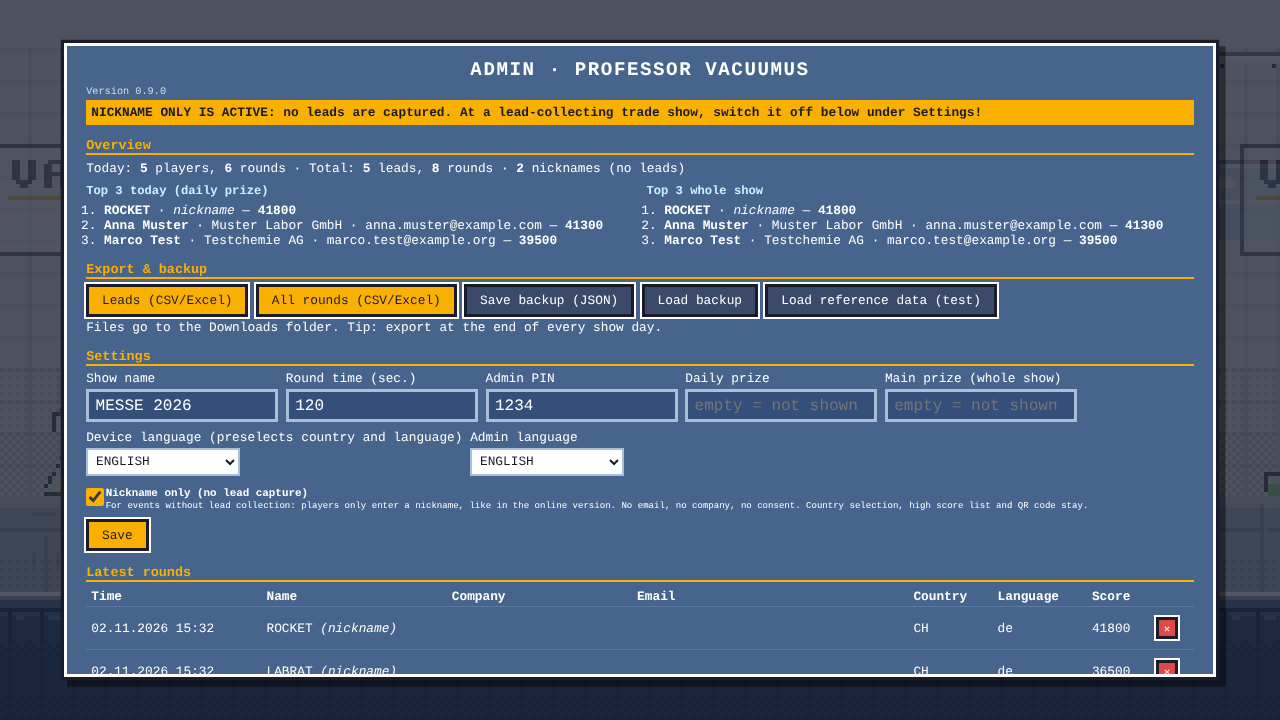
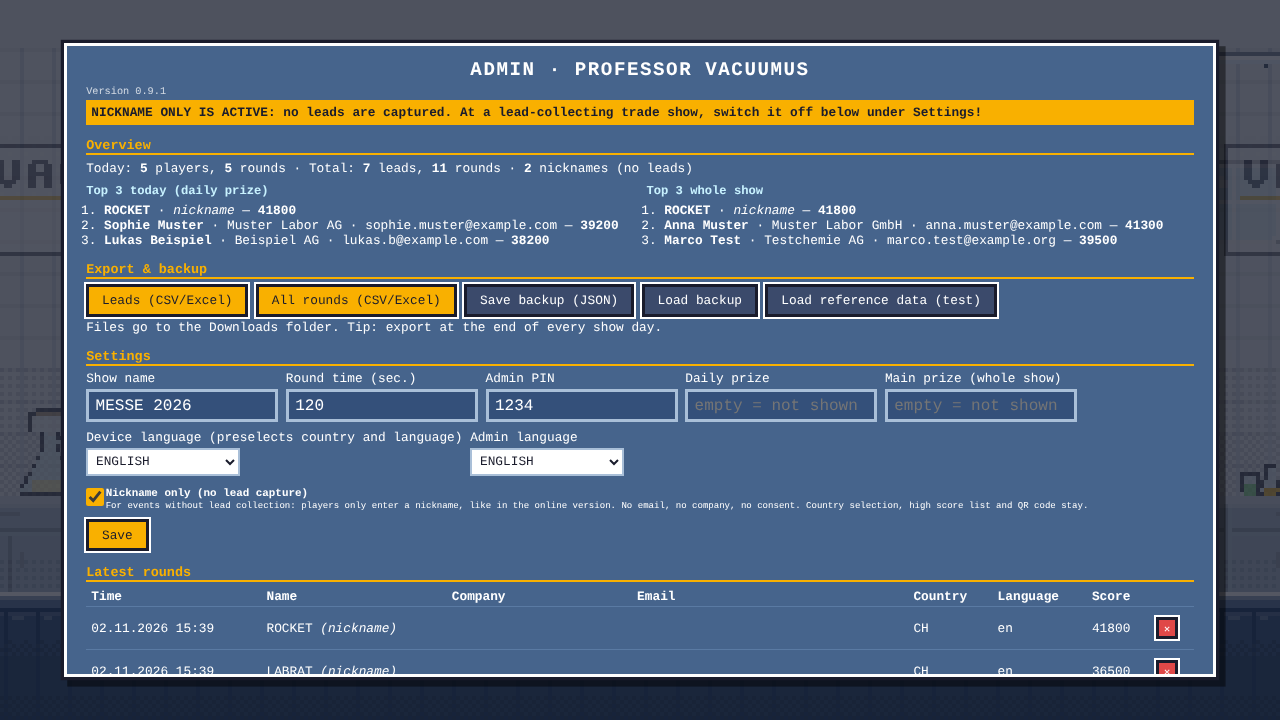
Doku: Admin-Screenshots mit Version 0.9.1 und Schalter Nur Spitzname, Download-Link auf alle Versionen
/releases/latest zeigt bei reinen Vorabversionen einen Fehler (404),
darum Link auf /releases.

Claude-Session: https://claude.ai/code/session_01Kw914B5m9AWXyXxcTjFzgT

diff --git a/TECHNIK.md b/TECHNIK.md
@@ -114,7 +114,7 @@ Online-Runden werden als Lead mit `isOnline: true`, Spitzname als Vorname und E-
 ### GitHub Pages und Automatik
 
 - GitHub Pages veröffentlicht bei jedem Push auf `main` automatisch das ganze Repo (Einstellung: Settings → Pages → „Deploy from a branch“, `main`, `/ (root)`). Die Datei `.nojekyll` sorgt dafür, dass die Dateien unverändert ausgeliefert werden.
-- `.github/workflows/release.yml` baut die **Download-Version**: Sobald man ihn unter Actions mit „Run workflow“ startet (Version eintragen, er setzt den Tag selbst) oder ein Tag `v…` (z. B. `v0.9.0`) gepusht wird, packt `git archive --prefix=Professor-Vacuumus/` das Repo in `Professor-Vacuumus-v….zip`, erstellt das Release mit dem Text aus `RELEASE_NOTES.md` und hängt das ZIP an. Tags mit `v0.` oder `-` (z. B. `v1.0.0-beta`) werden als Vorabversion (Pre-release) markiert. Was nicht ins ZIP gehört (`.github/`, `docs/wiki/`, `docs/discussions-willkommen.md`, `CLAUDE.md`, Punkt-Dateien), steht mit `export-ignore` in `.gitattributes`. `git archive` übernimmt die Ausführbarkeit der Start-Dateien (`.command`, `.sh`) ins ZIP; Windows ignoriert sie, Mac und Pi behalten sie beim Entpacken normalerweise. Falls nicht: `chmod +x` (siehe ANLEITUNG.md). Download-Link für alle: https://github.com/GSB-Deleven/vacuubrand-game/releases/latest
+- `.github/workflows/release.yml` baut die **Download-Version**: Sobald man ihn unter Actions mit „Run workflow“ startet (Version eintragen, er setzt den Tag selbst) oder ein Tag `v…` (z. B. `v0.9.0`) gepusht wird, packt `git archive --prefix=Professor-Vacuumus/` das Repo in `Professor-Vacuumus-v….zip`, erstellt das Release mit dem Text aus `RELEASE_NOTES.md` und hängt das ZIP an. Tags mit `v0.` oder `-` (z. B. `v1.0.0-beta`) werden als Vorabversion (Pre-release) markiert. Was nicht ins ZIP gehört (`.github/`, `docs/wiki/`, `docs/discussions-willkommen.md`, `CLAUDE.md`, Punkt-Dateien), steht mit `export-ignore` in `.gitattributes`. `git archive` übernimmt die Ausführbarkeit der Start-Dateien (`.command`, `.sh`) ins ZIP; Windows ignoriert sie, Mac und Pi behalten sie beim Entpacken normalerweise. Falls nicht: `chmod +x` (siehe ANLEITUNG.md). Download-Link für alle: https://github.com/GSB-Deleven/vacuubrand-game/releases
 - `.github/workflows/claude.yml` startet Claude, wenn in einem Issue oder Kommentar `@claude` steht oder das Label `claude` gesetzt wird. Claude setzt die Aufgabe auf einem eigenen Branch um und bereitet einen Pull Request vor. Voraussetzung: Repository-Secret `CLAUDE_CODE_OAUTH_TOKEN` (Claude-Abo, erzeugt mit `claude setup-token`) oder `ANTHROPIC_API_KEY`. Regeln für Claude stehen in `CLAUDE.md`.
 
 ### Szenen

diff --git a/README.md b/README.md
@@ -13,7 +13,7 @@
 
 > [!NOTE]
 > **🧪 Online testen: [gsb-deleven.github.io/vacuubrand-game](https://gsb-deleven.github.io/vacuubrand-game/)**
-> Die Online-Version ist nur zum Ausprobieren. An der Messe läuft die Offline-Version mit Anmeldung und Export: [herunterladen](https://github.com/GSB-Deleven/vacuubrand-game/releases/latest).
+> Die Online-Version ist nur zum Ausprobieren. An der Messe läuft die Offline-Version mit Anmeldung und Export: [herunterladen](https://github.com/GSB-Deleven/vacuubrand-game/releases).
 >
 > <details>
 > <summary>Unterschiede zur Messe-Version (aufklappen)</summary>
@@ -192,8 +192,9 @@ Das Spiel läuft auf **Deutsch, Englisch und Französisch** (Wunsch des UK-Teams
 - Export als **Excel-Datei (CSV)**: eine Liste mit allen Kontakten, eine mit allen gespielten Runden, jeweils mit Land und Sprache. Die Kontakte können danach direkt ins CRM oder an den Vertrieb.
 - Die Einwilligung ist Pflicht, der Newsletter freiwillig und separat angekreuzt.
 - Nach der Messe löscht ein Knopf alle Daten.
+- Für Anlässe ohne Lead-Sammlung gibt es im Admin den Schalter **Nur Spitzname**: Die Leute geben nur einen Spitznamen ein, es werden keine Kontaktdaten erfasst. Solange er an ist, zeigt der Admin einen gelben Warnbalken.
 
-![Admin-Bereich mit Top 3, Export und Einstellungen (Beispieldaten)](docs/screenshots/de/15-admin.png)
+![Admin-Bereich mit Top 3, Export, Einstellungen und Schalter „Nur Spitzname“ (Beispieldaten)](docs/screenshots/de/15-admin.png)
 
 > [!IMPORTANT]
 > Den Einwilligungstext sollte die Datenschutzstelle vor dem ersten Einsatz noch einmal anschauen, für UK/Irland und Frankreich jeweils separat. Er lässt sich in einer Datei ändern, ohne Programmierkenntnisse.
@@ -202,7 +203,7 @@ Das Spiel läuft auf **Deutsch, Englisch und Französisch** (Wunsch des UK-Teams
 
 ## ⬇ Herunterladen
 
-Die fertige Version zum Herunterladen: **[Professor Vacuumus, neueste Version](https://github.com/GSB-Deleven/vacuubrand-game/releases/latest)**
+Die fertige Version zum Herunterladen: **[Professor Vacuumus, neueste Version](https://github.com/GSB-Deleven/vacuubrand-game/releases)**
 
 1. Unten bei „Assets“ die Datei `Professor-Vacuumus-v….zip` laden.
 2. Entpacken (Windows: Rechtsklick → „Alle extrahieren“, Mac: Doppelklick, Raspberry Pi: Rechtsklick → „Hier entpacken“).

diff --git a/README.en.md b/README.en.md
@@ -13,7 +13,7 @@
 
 > [!NOTE]
 > **🧪 Try it online: [gsb-deleven.github.io/vacuubrand-game](https://gsb-deleven.github.io/vacuubrand-game/)**
-> The online version is for trying it out only. At the show, the offline version with registration and export is used: [download](https://github.com/GSB-Deleven/vacuubrand-game/releases/latest).
+> The online version is for trying it out only. At the show, the offline version with registration and export is used: [download](https://github.com/GSB-Deleven/vacuubrand-game/releases).
 >
 > <details>
 > <summary>Differences from the show version (expand)</summary>
@@ -192,8 +192,9 @@ The game runs in **German, English and French** (a wish of the UK team). Before 
 - Export as an **Excel file (CSV)**: one list with all contacts, one with all rounds played, each with country and language. The contacts can then go straight into the CRM or to sales.
 - Consent is required, the newsletter is optional and ticked separately.
 - After the show one button deletes all data.
+- For events without lead collection there is a **Nickname only** switch in the admin area: people only enter a nickname and no contact data is captured. While it is on, the admin area shows a yellow warning bar.
 
-![Admin area with top 3, export and settings (sample data)](docs/screenshots/en/15-admin.png)
+![Admin area with top 3, export, settings and the "Nickname only" switch (sample data)](docs/screenshots/en/15-admin.png)
 
 > [!IMPORTANT]
 > The consent text should be checked by data protection before first use, for the UK/Ireland and France separately. It can be changed in a file, without programming skills.
@@ -202,7 +203,7 @@ The game runs in **German, English and French** (a wish of the UK team). Before 
 
 ## ⬇ Download
 
-The ready-made version to download: **[Professor Vacuumus, latest version](https://github.com/GSB-Deleven/vacuubrand-game/releases/latest)**
+The ready-made version to download: **[Professor Vacuumus, latest version](https://github.com/GSB-Deleven/vacuubrand-game/releases)**
 
 1. Under "Assets" at the bottom, download `Professor-Vacuumus-v….zip`.
 2. Unzip it (Windows: right-click → "Extract All", Mac: double-click, Raspberry Pi: right-click → "Extract Here").

diff --git a/CLAUDE.md b/CLAUDE.md
@@ -41,7 +41,7 @@ Siehe `TECHNIK.md` (Dateien, Mechanik, Datenformat, Mehrsprachigkeit, Länder, K
 - Das Artifact auf claude.ai wird nicht mehr gepflegt; Testen läuft über GitHub Pages.
 
 ### Neue Version veröffentlichen (Download-ZIP)
-Release-Seite: https://github.com/GSB-Deleven/vacuubrand-game/releases/latest. `CONFIG.version` (js/config.js, steht klein im Admin) und `sw.js` VERSION erhöhen, `RELEASE_NOTES.md` (DE zuerst, dann EN) anpassen, per PR mergen, dann den Workflow „Release erstellen“ starten: `mcp__github__actions_run_trigger` (method `run_workflow`, workflow `release.yml`, ref `main`, inputs `{version: 'v0.9.1'}`); er setzt den Tag selbst. Tags pushen ist aus der Cloud-Umgebung blockiert (403). David kann im Browser: Actions → Release erstellen → Run workflow. `.github/workflows/release.yml` baut mit `git archive` das ZIP `Professor-Vacuumus-vX.Y.Z.zip` und erstellt das Release (`v0.*` oder mit `-` = Pre-release). Was nicht ins ZIP soll: `export-ignore` in `.gitattributes`. Details: TECHNIK.md, Kochrezept „Neue Version veröffentlichen“.
+Release-Seite: https://github.com/GSB-Deleven/vacuubrand-game/releases. `CONFIG.version` (js/config.js, steht klein im Admin) und `sw.js` VERSION erhöhen, `RELEASE_NOTES.md` (DE zuerst, dann EN) anpassen, per PR mergen, dann den Workflow „Release erstellen“ starten: `mcp__github__actions_run_trigger` (method `run_workflow`, workflow `release.yml`, ref `main`, inputs `{version: 'v0.9.1'}`); er setzt den Tag selbst. Tags pushen ist aus der Cloud-Umgebung blockiert (403). David kann im Browser: Actions → Release erstellen → Run workflow. `.github/workflows/release.yml` baut mit `git archive` das ZIP `Professor-Vacuumus-vX.Y.Z.zip` und erstellt das Release (`v0.*` oder mit `-` = Pre-release). Was nicht ins ZIP soll: `export-ignore` in `.gitattributes`. Details: TECHNIK.md, Kochrezept „Neue Version veröffentlichen“.
 
 ### Bei Issues
 1. Kurz im Issue bestätigen, was umgesetzt wird.

diff --git a/ANLEITUNG.md b/ANLEITUNG.md
@@ -45,7 +45,7 @@ Diese Anleitung erklärt Schritt für Schritt, wie das Messespiel am Stand läuf
 
 ## 2. Herunterladen und installieren
 
-Die fertige Download-Version liegt auf GitHub: **[Neueste Version herunterladen](https://github.com/GSB-Deleven/vacuubrand-game/releases/latest)**.
+Die fertige Download-Version liegt auf GitHub: **[Neueste Version herunterladen](https://github.com/GSB-Deleven/vacuubrand-game/releases)**.
 Dort unten bei „Assets“ die Datei `Professor-Vacuumus-v….zip` laden (nicht „Source code“).
 
 | System | So geht's |
@@ -294,7 +294,7 @@ Auf dem Titelbild **Strg + Shift + A** drücken (Tablet: 3 Sekunden aufs Logo), 
 > [!WARNING]
 > Die Standard-PIN ist **1234**. Bitte vor der Messe ändern!
 
-![Admin-Bereich mit Top 3, Export und Einstellungen (Beispieldaten)](docs/screenshots/de/15-admin.png)
+![Admin-Bereich mit Top 3, Export, Einstellungen und Schalter „Nur Spitzname“ (Beispieldaten)](docs/screenshots/de/15-admin.png)
 
 | Bereich | Was es kann |
 |---|---|

diff --git a/GUIDE.en.md b/GUIDE.en.md
@@ -45,7 +45,7 @@ This guide explains step by step how the trade show game works at the booth: sta
 
 ## 2. Download and installation
 
-The ready-made download version is on GitHub: **[Download the latest version](https://github.com/GSB-Deleven/vacuubrand-game/releases/latest)**.
+The ready-made download version is on GitHub: **[Download the latest version](https://github.com/GSB-Deleven/vacuubrand-game/releases)**.
 At the bottom under "Assets", download `Professor-Vacuumus-v….zip` (not "Source code").
 
 | System | How |
@@ -294,7 +294,7 @@ On the title screen press **Ctrl + Shift + A** (tablet: 3 seconds on the logo), 
 > [!WARNING]
 > The default PIN is **1234**. Please change it before the show!
 
-![Admin area with top 3, export and settings (sample data)](docs/screenshots/en/15-admin.png)
+![Admin area with top 3, export, settings and the "Nickname only" switch (sample data)](docs/screenshots/en/15-admin.png)
 
 | Section | What it does |
 |---|---|
